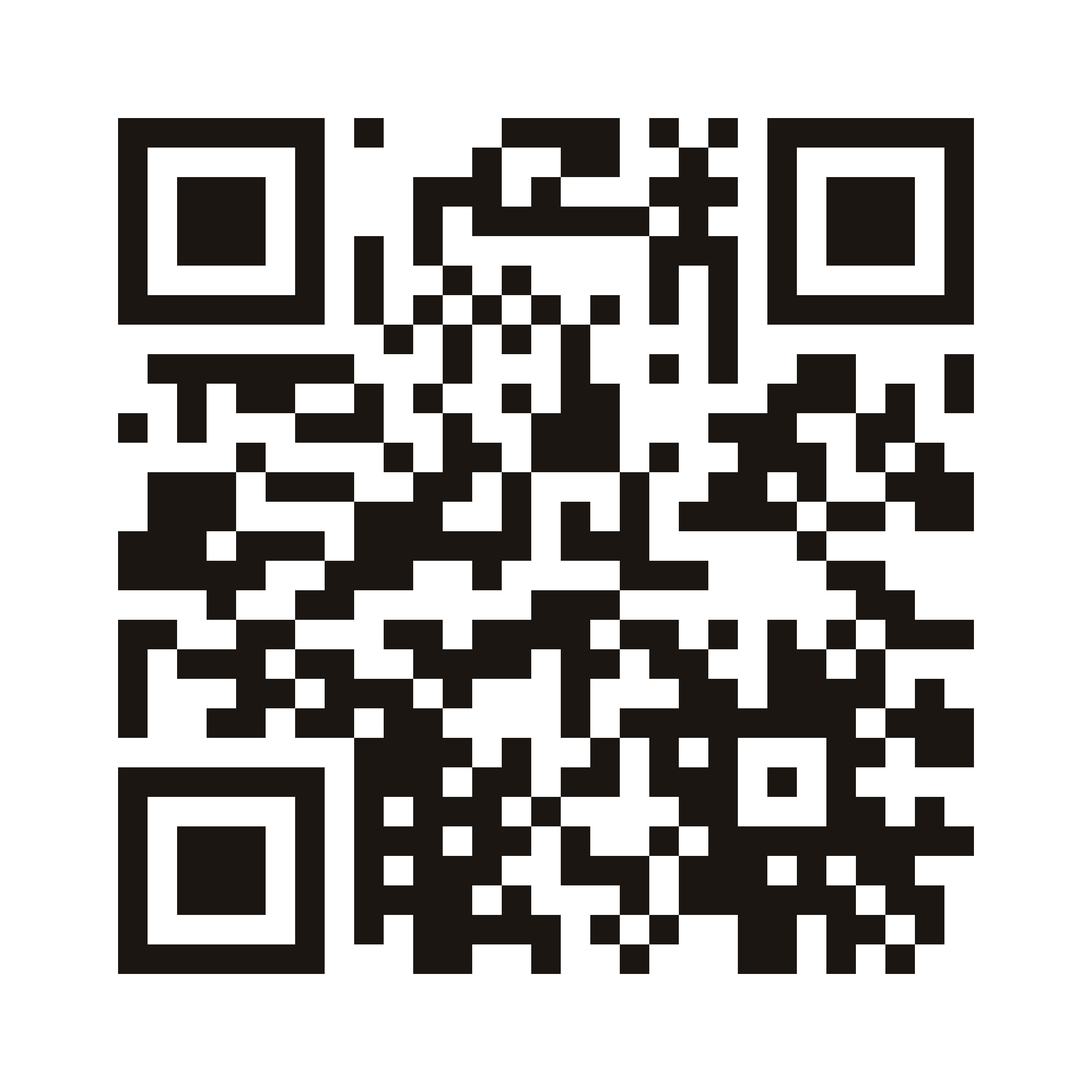
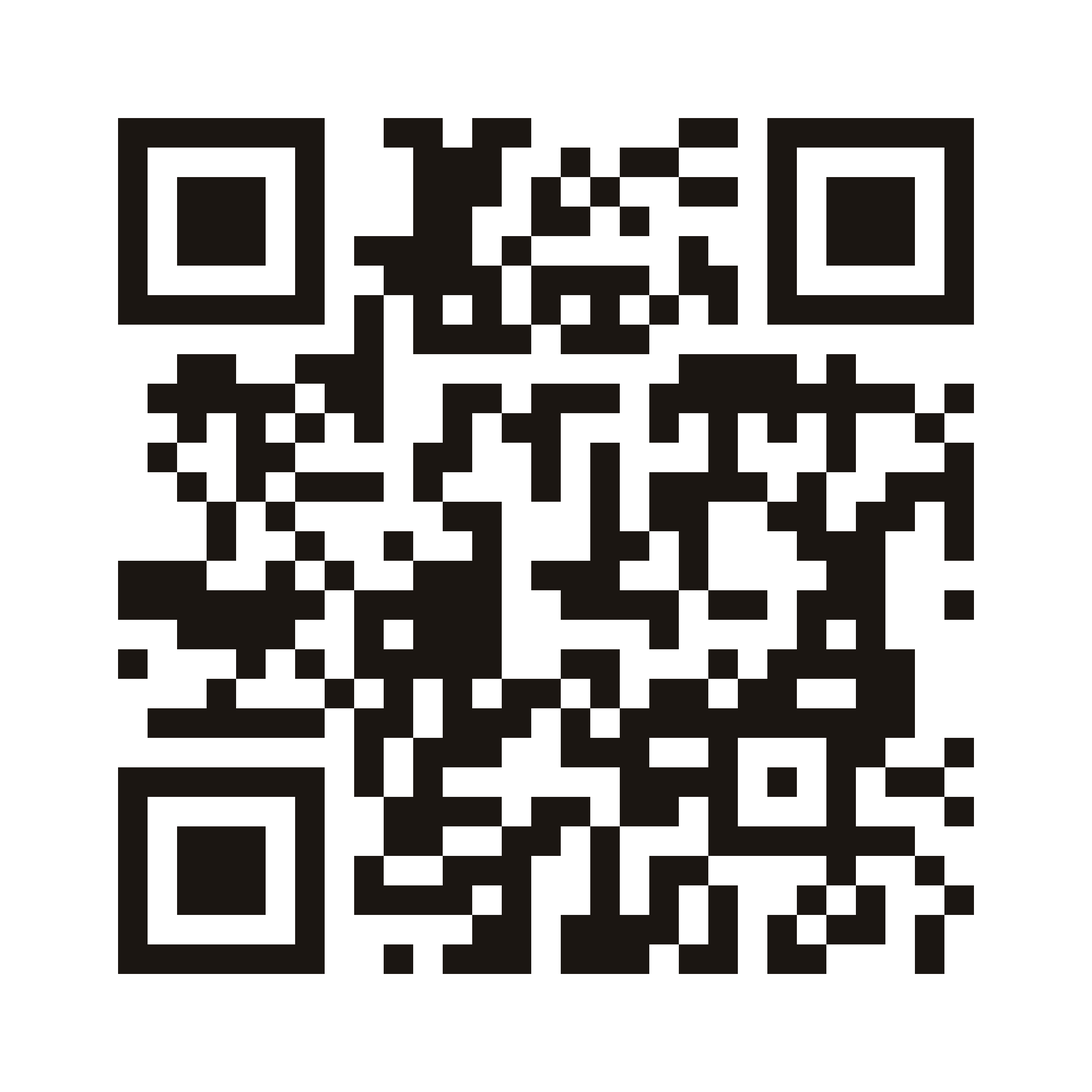
Постеры A4 (светлый и тёмный): QR с логотипами, короткие ссылки /r/ на отзывы
- tools/make_qr.py: уровень коррекции H, логотип в центре кода; коды бота, Instagram, Google, Яндекса, 2ГИС
- /r/google, /r/yandex, /r/2gis ведут на ссылки отзывов из «Настроек» таблицы
- tools/check_qr.swift: проверка распознавания через Apple Vision
- print/mockups: макеты A4

Changed region(s): [[0.0938, 0.0938, 0.9062, 0.9062], [0.8438, 0.3125, 0.9062, 0.375]]

diff --git a/print/mockups/a4-light.html b/print/mockups/a4-light.html
@@ -1,0 +1,93 @@
+<!doctype html><html lang="uz" class="light"><head><meta charset="utf-8"><title>A4 — light</title><link rel="stylesheet" href="base.css"><style>
+@page { size: 210mm 297mm; margin: 0; }
+.light { --bg: #FFF6EA; --dots: rgb(27 22 18 / .07); --fg: #1B1612; --muted: #74695F; --accent: #E31B23; --chip: #fff; --line: #EEDDC8; --star: #F5A300; }
+.dark  { --bg: #17120F; --dots: rgb(255 255 255 / .06); --fg: #FBF3EA; --muted: #B9AA9B; --accent: #FFD23F; --chip: #241C17; --line: #3A2E26; --star: #FFD23F; }
+.page { width: 210mm; height: 297mm; color: var(--fg); background: radial-gradient(var(--dots) .35mm, transparent .4mm) 0 0 / 4mm 4mm, var(--bg); }
+.dark .page { background: radial-gradient(var(--dots) .35mm, transparent .4mm) 0 0 / 4mm 4mm, radial-gradient(70% 40% at 100% 0%, rgb(227 27 35 / .38), transparent 70%), radial-gradient(55% 35% at 0% 50%, rgb(255 210 63 / .09), transparent 70%), var(--bg); }
+.word { color: var(--fg); }
+
+.top { position: absolute; top: 13mm; left: 16mm; right: 16mm; display: flex; justify-content: space-between; align-items: center; }
+.open { display: flex; align-items: center; gap: 2.4mm; padding: 2.2mm 4.4mm 2.2mm 3mm; border-radius: 99mm; background: var(--chip); border: .5mm solid var(--line); }
+.open svg { width: 7.4mm; height: 7.4mm; color: var(--accent); }
+.open b { display: block; font-size: 6.6mm; font-weight: 800; line-height: 1; }
+.open span { display: block; margin-top: .6mm; font-size: 2.9mm; font-weight: 600; color: var(--muted); }
+
+.head { position: absolute; top: 41mm; left: 14mm; right: 14mm; text-align: center; }
+h1 { font-size: 14mm; line-height: 1; font-weight: 800; letter-spacing: -.03em; }
+h1 em { display: block; font-style: normal; color: var(--accent); }
+.head p { margin-top: 3.2mm; font-size: 5.2mm; font-weight: 600; color: var(--muted); }
+
+.stage { position: absolute; top: 94mm; left: 50%; width: 94mm; transform: translateX(-50%); }
+.stage::before { content: ""; position: absolute; inset: -4.5mm -6mm; border-radius: 10mm; background: #FFD23F; transform: rotate(-3.5deg); }
+.card { position: relative; padding: 15mm 11mm 4mm; border-radius: 7mm; background: #fff; text-align: center; box-shadow: 0 1.6mm 0 rgb(0 0 0 / .14); }
+.card img { display: block; width: 100%; height: auto; }
+.cta { position: absolute; top: 0; left: 50%; transform: translate(-50%, -55%); display: flex; align-items: center; gap: 2.2mm; padding: 2.5mm 5.2mm 2.5mm 4.4mm; border-radius: 99mm; background: #E31B23; color: #fff; white-space: nowrap; box-shadow: 0 1mm 0 #A80E17; }
+.cta svg { width: 6.2mm; height: 6.2mm; }
+.cta b { font-size: 5.2mm; font-weight: 800; letter-spacing: .04em; text-transform: uppercase; }
+.cta span { font-size: 3.8mm; font-weight: 600; opacity: .9; }
+.url { margin-top: 3.4mm; font-size: 5.8mm; font-weight: 800; color: #1B1612; }
+
+/* выгода рядом с действием: стикер «бесплатная доставка» */
+.sticker { position: absolute; top: 106mm; left: 9mm; width: 39mm; height: 39mm; border-radius: 50%; background: #E31B23; color: #fff; display: grid; place-items: center; text-align: center; transform: rotate(-11deg); box-shadow: 0 1.4mm 0 #A80E17; }
+.sticker::before { content: ""; position: absolute; inset: 1.6mm; border-radius: 50%; border: .45mm dashed rgb(255 255 255 / .6); }
+.sticker svg { width: 8mm; height: 8mm; color: #FFD23F; }
+.sticker b { display: block; font-size: 7.4mm; font-weight: 800; line-height: .95; letter-spacing: -.01em; }
+.sticker span { display: block; font-size: 3.1mm; font-weight: 700; line-height: 1.1; }
+.sticker small { display: block; margin-top: .9mm; font-size: 2.9mm; font-weight: 500; opacity: .85; }
+
+/* маскот смотрит на главный QR — взгляд зрителя идёт туда же */
+.mascot { position: absolute; top: 150mm; right: 7mm; width: 40mm; transform: rotate(9deg); }
+.mascot svg { display: block; width: 100%; height: 40mm; filter: drop-shadow(1.1mm 0 0 #fff) drop-shadow(-1.1mm 0 0 #fff) drop-shadow(0 1.1mm 0 #fff) drop-shadow(0 -1.1mm 0 #fff) drop-shadow(0 1.6mm 0 rgb(0 0 0 / .16)); }
+
+.links { position: absolute; top: 214mm; left: 16mm; right: 16mm; display: grid; grid-template-columns: 2fr 3fr; gap: 6mm; }
+.panel { padding: 3.6mm 4mm 3.2mm; border-radius: 5mm; background: var(--chip); border: .5mm solid var(--line); }
+.panel h2 { display: flex; align-items: center; gap: 1.8mm; height: 4.8mm; font-size: 4mm; font-weight: 800; line-height: 1.1; white-space: nowrap; }
+.panel h2 small { font-size: 3.3mm; font-weight: 500; color: var(--muted); }
+.stars { display: inline-flex; gap: .3mm; margin-left: auto; color: var(--star); }
+.stars svg { width: 3.7mm; height: 3.7mm; }
+.row { display: grid; gap: 4mm; margin-top: 3mm; }
+.panel:first-child .row { grid-template-columns: repeat(2, 1fr); }
+.panel:last-child .row { grid-template-columns: repeat(3, 1fr); }
+.tile { text-align: center; }
+.tile .q { padding: 2.5mm; border-radius: 3mm; background: #fff; border: .4mm solid #E9E1D6; }
+.dark .tile .q { border-color: #fff; }
+.tile .q img { display: block; width: 100%; }
+.tile b { display: block; margin-top: 1.8mm; font-size: 3.2mm; font-weight: 700; }
+
+.band { position: absolute; left: 0; right: 0; bottom: 0; height: 24mm; padding: 0 16mm; display: grid; grid-template-columns: auto 1fr; gap: 8mm; align-items: center; background: #E31B23; color: #fff; }
+.band .ph { display: flex; align-items: center; gap: 2.4mm; font-size: 6.6mm; font-weight: 800; white-space: nowrap; }
+.band .ph svg { width: 6mm; height: 6mm; }
+.band .ad { display: flex; align-items: center; gap: 2.4mm; padding-left: 8mm; border-left: .4mm solid rgb(255 255 255 / .35); font-size: 4mm; font-weight: 800; line-height: 1.2; }
+.band .ad svg { width: 5.6mm; height: 5.6mm; }
+.band .ad span { display: block; font-size: 3mm; font-weight: 500; opacity: .88; }
+</style></head><body><svg width="0" height="0" style="position:absolute"><defs>
+<symbol id="cup" viewBox="0 0 64 64"><path d="M21 13 25 5l7 6 7-6 4 8z" fill="#FFD23F" stroke="#1B1612" stroke-width="2.4" stroke-linejoin="round"/><path d="M11 17h42l-4.2 33.5A7 7 0 0 1 41.9 57H22.1a7 7 0 0 1-6.9-6.5z" fill="#1B1612"/><path d="M52 24h2.5a8 8 0 0 1 0 16H50" fill="none" stroke="#1B1612" stroke-width="4.5" stroke-linecap="round"/><ellipse cx="25" cy="30" rx="2.6" ry="3.2" fill="#fff"/><ellipse cx="39" cy="30" rx="2.6" ry="3.2" fill="#fff"/><path d="M23 39q9 9 18 0" fill="none" stroke="#fff" stroke-width="3.4" stroke-linecap="round"/></symbol>
+<symbol id="phone" viewBox="0 0 24 24"><path d="M6.6 3.5h2.6l1.4 4.2-2 1.3a11 11 0 0 0 6.4 6.4l1.3-2 4.2 1.4v2.6a2 2 0 0 1-2.2 2A16.5 16.5 0 0 1 4.6 5.7a2 2 0 0 1 2-2.2z" fill="none" stroke="currentColor" stroke-width="2" stroke-linejoin="round"/></symbol>
+<symbol id="pin" viewBox="0 0 24 24"><g fill="none" stroke="currentColor" stroke-width="2" stroke-linejoin="round"><path d="M12 21s-6.5-5.6-6.5-11a6.5 6.5 0 0 1 13 0c0 5.4-6.5 11-6.5 11z"/><circle cx="12" cy="10" r="2.4"/></g></symbol>
+<symbol id="clock" viewBox="0 0 24 24"><g fill="none" stroke="currentColor" stroke-width="2" stroke-linecap="round"><circle cx="12" cy="12" r="8.5"/><path d="M12 7.5V12l3 2"/></g></symbol>
+<symbol id="insta" viewBox="0 0 24 24"><g fill="none" stroke="currentColor" stroke-width="2"><rect x="3.5" y="3.5" width="17" height="17" rx="5"/><circle cx="12" cy="12" r="4"/><circle cx="17.2" cy="6.8" r=".6" fill="currentColor"/></g></symbol>
+<symbol id="tg" viewBox="0 0 24 24"><path d="M20.5 4.5 3.8 11c-.9.4-.9 1.6.1 1.9l4.1 1.3 1.6 5c.3.8 1.3 1 1.9.4l2.3-2.2 4.4 3.2c.7.5 1.7.1 1.9-.7L22 5.8c.2-1-.7-1.7-1.5-1.3zM9.5 14l8-6.2" fill="none" stroke="currentColor" stroke-width="1.8" stroke-linejoin="round"/></symbol>
+<symbol id="scooter" viewBox="0 0 24 24"><g fill="none" stroke="currentColor" stroke-width="2" stroke-linecap="round" stroke-linejoin="round"><circle cx="6" cy="17" r="2.5"/><circle cx="18" cy="17" r="2.5"/><path d="M8.5 17h6.5l2-6h-4M14 5h2l3 12M3 11h6v3"/></g></symbol>
+
+<symbol id="bag" viewBox="0 0 24 24"><g fill="none" stroke="currentColor" stroke-width="2" stroke-linejoin="round"><path d="M5 8h14l-1.2 12H6.2z"/><path d="M9 10V7a3 3 0 0 1 6 0v3"/></g></symbol>
+<symbol id="wallet" viewBox="0 0 24 24"><g fill="none" stroke="currentColor" stroke-width="2" stroke-linecap="round"><rect x="3" y="5.5" width="18" height="13" rx="2.5"/><path d="M3 10h18M7 14.5h3"/></g></symbol>
+<symbol id="camera" viewBox="0 0 24 24"><g fill="none" stroke="currentColor" stroke-width="2.2" stroke-linejoin="round"><path d="M4 8.5h3l1.6-2.5h6.8L17 8.5h3a1 1 0 0 1 1 1V18a1 1 0 0 1-1 1H4a1 1 0 0 1-1-1V9.5a1 1 0 0 1 1-1z"/><circle cx="12" cy="13.5" r="3.4"/></g></symbol>
+<symbol id="tgfill" viewBox="0 0 24 24"><circle cx="12" cy="12" r="12" fill="#229ED9"/><path d="M5.4 11.8 17 7.3c.6-.2 1.1.1.9 1l-2 9.3c-.1.7-.6.8-1.1.5l-3-2.2-1.5 1.4c-.2.2-.3.3-.6.3l.2-3.1 5.6-5c.2-.2 0-.3-.3-.1l-6.9 4.3-3-.9c-.6-.2-.6-.6.1-.9z" fill="#fff"/></symbol>
+<symbol id="igfill" viewBox="0 0 24 24"><defs><radialGradient id="igg" cx="30%" cy="107%" r="150%"><stop offset="0" stop-color="#FDF497"/><stop offset=".05" stop-color="#FDF497"/><stop offset=".45" stop-color="#FD5949"/><stop offset=".6" stop-color="#D6249F"/><stop offset=".9" stop-color="#285AEB"/></radialGradient></defs><rect width="24" height="24" rx="6.5" fill="url(#igg)"/><g fill="none" stroke="#fff" stroke-width="1.9"><rect x="5.2" y="5.2" width="13.6" height="13.6" rx="4"/><circle cx="12" cy="12" r="3.3"/></g><circle cx="16.3" cy="7.7" r="1" fill="#fff"/></symbol>
+<symbol id="star" viewBox="0 0 24 24"><path d="m12 2.8 2.8 5.9 6.4.8-4.7 4.4 1.2 6.4L12 17.2l-5.7 3.1 1.2-6.4-4.7-4.4 6.4-.8z" fill="currentColor"/></symbol>
+<symbol id="buddy" viewBox="0 0 64 64"><path d="M21 13 25 5l7 6 7-6 4 8z" fill="#FFD23F" stroke="#1B1612" stroke-width="2.4" stroke-linejoin="round"/><path d="M11 17h42l-4.2 33.5A7 7 0 0 1 41.9 57H22.1a7 7 0 0 1-6.9-6.5z" fill="#1B1612"/><path d="M52 24h2.5a8 8 0 0 1 0 16H50" fill="none" stroke="#1B1612" stroke-width="4.5" stroke-linecap="round"/><ellipse cx="25" cy="30" rx="3.6" ry="4.2" fill="#fff"/><ellipse cx="39" cy="30" rx="3.6" ry="4.2" fill="#fff"/><circle cx="23.4" cy="31.6" r="2" fill="#1B1612"/><circle cx="37.4" cy="31.6" r="2" fill="#1B1612"/><circle cx="19.5" cy="38" r="2.2" fill="#E31B23"/><circle cx="44.5" cy="38" r="2.2" fill="#E31B23"/><path d="M25 40q7 7 14 0" fill="none" stroke="#fff" stroke-width="3.2" stroke-linecap="round"/></symbol>
+</defs></svg><div class="page"><div class="top"><div class="brand"><span class="mark"><svg><use href="#cup"/></svg></span><span class="word">Buddy <i>COFFEE</i></span></div>
+<div class="open"><svg class="icon"><use href="#clock"/></svg><div><b>24/7</b><span>Har kuni · Ежедневно</span></div></div></div>
+<div class="head"><h1>Menyu va buyurtma <em>bitta skanerda</em></h1><p>Меню и заказ — в один скан</p></div>
+<div class="sticker"><div><svg class="icon"><use href="#scooter"/></svg><b>BEPUL</b><span>yetkazib berish</span><small>Бесплатная доставка</small></div></div>
+<div class="stage"><div class="card"><div class="cta"><svg class="icon"><use href="#camera"/></svg><b>Skanerlang</b><span>Сканируйте</span></div><img src="../qr.svg" alt=""><div class="url">buddy.cheking.uz</div></div></div>
+<div class="mascot"><svg viewBox="0 0 64 64"><use href="#buddy"/></svg></div>
+<div class="links">
+<div class="panel"><h2>Obuna bo‘ling <small>· Подпишитесь</small></h2><div class="row">
+<div class="tile"><div class="q"><img src="../qr-bot.svg" alt=""></div><b>Telegram</b></div>
+<div class="tile"><div class="q"><img src="../qr-instagram.svg" alt=""></div><b>Instagram</b></div></div></div>
+<div class="panel"><h2>Sharh qoldiring <small>· Оставьте отзыв</small><span class="stars"><svg><use href="#star"/></svg><svg><use href="#star"/></svg><svg><use href="#star"/></svg><svg><use href="#star"/></svg><svg><use href="#star"/></svg></span></h2><div class="row">
+<div class="tile"><div class="q"><img src="../qr-google.svg" alt=""></div><b>Google</b></div>
+<div class="tile"><div class="q"><img src="../qr-yandex.svg" alt=""></div><b>Yandex</b></div>
+<div class="tile"><div class="q"><img src="../qr-2gis.svg" alt=""></div><b>2GIS</b></div></div></div></div>
+<div class="band"><div class="ph"><svg class="icon"><use href="#phone"/></svg>+998 90 896 54 00</div><div class="ad"><svg class="icon"><use href="#pin"/></svg><div>Fusunkor ko‘chasi, 70<span>ул. Фусункор, 70 · рядом с «Visol»</span></div></div></div></div></body></html>

diff --git a/print/mockups/a4-dark.html b/print/mockups/a4-dark.html
@@ -1,0 +1,93 @@
+<!doctype html><html lang="uz" class="dark"><head><meta charset="utf-8"><title>A4 — dark</title><link rel="stylesheet" href="base.css"><style>
+@page { size: 210mm 297mm; margin: 0; }
+.light { --bg: #FFF6EA; --dots: rgb(27 22 18 / .07); --fg: #1B1612; --muted: #74695F; --accent: #E31B23; --chip: #fff; --line: #EEDDC8; --star: #F5A300; }
+.dark  { --bg: #17120F; --dots: rgb(255 255 255 / .06); --fg: #FBF3EA; --muted: #B9AA9B; --accent: #FFD23F; --chip: #241C17; --line: #3A2E26; --star: #FFD23F; }
+.page { width: 210mm; height: 297mm; color: var(--fg); background: radial-gradient(var(--dots) .35mm, transparent .4mm) 0 0 / 4mm 4mm, var(--bg); }
+.dark .page { background: radial-gradient(var(--dots) .35mm, transparent .4mm) 0 0 / 4mm 4mm, radial-gradient(70% 40% at 100% 0%, rgb(227 27 35 / .38), transparent 70%), radial-gradient(55% 35% at 0% 50%, rgb(255 210 63 / .09), transparent 70%), var(--bg); }
+.word { color: var(--fg); }
+
+.top { position: absolute; top: 13mm; left: 16mm; right: 16mm; display: flex; justify-content: space-between; align-items: center; }
+.open { display: flex; align-items: center; gap: 2.4mm; padding: 2.2mm 4.4mm 2.2mm 3mm; border-radius: 99mm; background: var(--chip); border: .5mm solid var(--line); }
+.open svg { width: 7.4mm; height: 7.4mm; color: var(--accent); }
+.open b { display: block; font-size: 6.6mm; font-weight: 800; line-height: 1; }
+.open span { display: block; margin-top: .6mm; font-size: 2.9mm; font-weight: 600; color: var(--muted); }
+
+.head { position: absolute; top: 41mm; left: 14mm; right: 14mm; text-align: center; }
+h1 { font-size: 14mm; line-height: 1; font-weight: 800; letter-spacing: -.03em; }
+h1 em { display: block; font-style: normal; color: var(--accent); }
+.head p { margin-top: 3.2mm; font-size: 5.2mm; font-weight: 600; color: var(--muted); }
+
+.stage { position: absolute; top: 94mm; left: 50%; width: 94mm; transform: translateX(-50%); }
+.stage::before { content: ""; position: absolute; inset: -4.5mm -6mm; border-radius: 10mm; background: #FFD23F; transform: rotate(-3.5deg); }
+.card { position: relative; padding: 15mm 11mm 4mm; border-radius: 7mm; background: #fff; text-align: center; box-shadow: 0 1.6mm 0 rgb(0 0 0 / .14); }
+.card img { display: block; width: 100%; height: auto; }
+.cta { position: absolute; top: 0; left: 50%; transform: translate(-50%, -55%); display: flex; align-items: center; gap: 2.2mm; padding: 2.5mm 5.2mm 2.5mm 4.4mm; border-radius: 99mm; background: #E31B23; color: #fff; white-space: nowrap; box-shadow: 0 1mm 0 #A80E17; }
+.cta svg { width: 6.2mm; height: 6.2mm; }
+.cta b { font-size: 5.2mm; font-weight: 800; letter-spacing: .04em; text-transform: uppercase; }
+.cta span { font-size: 3.8mm; font-weight: 600; opacity: .9; }
+.url { margin-top: 3.4mm; font-size: 5.8mm; font-weight: 800; color: #1B1612; }
+
+/* выгода рядом с действием: стикер «бесплатная доставка» */
+.sticker { position: absolute; top: 106mm; left: 9mm; width: 39mm; height: 39mm; border-radius: 50%; background: #E31B23; color: #fff; display: grid; place-items: center; text-align: center; transform: rotate(-11deg); box-shadow: 0 1.4mm 0 #A80E17; }
+.sticker::before { content: ""; position: absolute; inset: 1.6mm; border-radius: 50%; border: .45mm dashed rgb(255 255 255 / .6); }
+.sticker svg { width: 8mm; height: 8mm; color: #FFD23F; }
+.sticker b { display: block; font-size: 7.4mm; font-weight: 800; line-height: .95; letter-spacing: -.01em; }
+.sticker span { display: block; font-size: 3.1mm; font-weight: 700; line-height: 1.1; }
+.sticker small { display: block; margin-top: .9mm; font-size: 2.9mm; font-weight: 500; opacity: .85; }
+
+/* маскот смотрит на главный QR — взгляд зрителя идёт туда же */
+.mascot { position: absolute; top: 150mm; right: 7mm; width: 40mm; transform: rotate(9deg); }
+.mascot svg { display: block; width: 100%; height: 40mm; filter: drop-shadow(1.1mm 0 0 #fff) drop-shadow(-1.1mm 0 0 #fff) drop-shadow(0 1.1mm 0 #fff) drop-shadow(0 -1.1mm 0 #fff) drop-shadow(0 1.6mm 0 rgb(0 0 0 / .16)); }
+
+.links { position: absolute; top: 214mm; left: 16mm; right: 16mm; display: grid; grid-template-columns: 2fr 3fr; gap: 6mm; }
+.panel { padding: 3.6mm 4mm 3.2mm; border-radius: 5mm; background: var(--chip); border: .5mm solid var(--line); }
+.panel h2 { display: flex; align-items: center; gap: 1.8mm; height: 4.8mm; font-size: 4mm; font-weight: 800; line-height: 1.1; white-space: nowrap; }
+.panel h2 small { font-size: 3.3mm; font-weight: 500; color: var(--muted); }
+.stars { display: inline-flex; gap: .3mm; margin-left: auto; color: var(--star); }
+.stars svg { width: 3.7mm; height: 3.7mm; }
+.row { display: grid; gap: 4mm; margin-top: 3mm; }
+.panel:first-child .row { grid-template-columns: repeat(2, 1fr); }
+.panel:last-child .row { grid-template-columns: repeat(3, 1fr); }
+.tile { text-align: center; }
+.tile .q { padding: 2.5mm; border-radius: 3mm; background: #fff; border: .4mm solid #E9E1D6; }
+.dark .tile .q { border-color: #fff; }
+.tile .q img { display: block; width: 100%; }
+.tile b { display: block; margin-top: 1.8mm; font-size: 3.2mm; font-weight: 700; }
+
+.band { position: absolute; left: 0; right: 0; bottom: 0; height: 24mm; padding: 0 16mm; display: grid; grid-template-columns: auto 1fr; gap: 8mm; align-items: center; background: #E31B23; color: #fff; }
+.band .ph { display: flex; align-items: center; gap: 2.4mm; font-size: 6.6mm; font-weight: 800; white-space: nowrap; }
+.band .ph svg { width: 6mm; height: 6mm; }
+.band .ad { display: flex; align-items: center; gap: 2.4mm; padding-left: 8mm; border-left: .4mm solid rgb(255 255 255 / .35); font-size: 4mm; font-weight: 800; line-height: 1.2; }
+.band .ad svg { width: 5.6mm; height: 5.6mm; }
+.band .ad span { display: block; font-size: 3mm; font-weight: 500; opacity: .88; }
+</style></head><body><svg width="0" height="0" style="position:absolute"><defs>
+<symbol id="cup" viewBox="0 0 64 64"><path d="M21 13 25 5l7 6 7-6 4 8z" fill="#FFD23F" stroke="#1B1612" stroke-width="2.4" stroke-linejoin="round"/><path d="M11 17h42l-4.2 33.5A7 7 0 0 1 41.9 57H22.1a7 7 0 0 1-6.9-6.5z" fill="#1B1612"/><path d="M52 24h2.5a8 8 0 0 1 0 16H50" fill="none" stroke="#1B1612" stroke-width="4.5" stroke-linecap="round"/><ellipse cx="25" cy="30" rx="2.6" ry="3.2" fill="#fff"/><ellipse cx="39" cy="30" rx="2.6" ry="3.2" fill="#fff"/><path d="M23 39q9 9 18 0" fill="none" stroke="#fff" stroke-width="3.4" stroke-linecap="round"/></symbol>
+<symbol id="phone" viewBox="0 0 24 24"><path d="M6.6 3.5h2.6l1.4 4.2-2 1.3a11 11 0 0 0 6.4 6.4l1.3-2 4.2 1.4v2.6a2 2 0 0 1-2.2 2A16.5 16.5 0 0 1 4.6 5.7a2 2 0 0 1 2-2.2z" fill="none" stroke="currentColor" stroke-width="2" stroke-linejoin="round"/></symbol>
+<symbol id="pin" viewBox="0 0 24 24"><g fill="none" stroke="currentColor" stroke-width="2" stroke-linejoin="round"><path d="M12 21s-6.5-5.6-6.5-11a6.5 6.5 0 0 1 13 0c0 5.4-6.5 11-6.5 11z"/><circle cx="12" cy="10" r="2.4"/></g></symbol>
+<symbol id="clock" viewBox="0 0 24 24"><g fill="none" stroke="currentColor" stroke-width="2" stroke-linecap="round"><circle cx="12" cy="12" r="8.5"/><path d="M12 7.5V12l3 2"/></g></symbol>
+<symbol id="insta" viewBox="0 0 24 24"><g fill="none" stroke="currentColor" stroke-width="2"><rect x="3.5" y="3.5" width="17" height="17" rx="5"/><circle cx="12" cy="12" r="4"/><circle cx="17.2" cy="6.8" r=".6" fill="currentColor"/></g></symbol>
+<symbol id="tg" viewBox="0 0 24 24"><path d="M20.5 4.5 3.8 11c-.9.4-.9 1.6.1 1.9l4.1 1.3 1.6 5c.3.8 1.3 1 1.9.4l2.3-2.2 4.4 3.2c.7.5 1.7.1 1.9-.7L22 5.8c.2-1-.7-1.7-1.5-1.3zM9.5 14l8-6.2" fill="none" stroke="currentColor" stroke-width="1.8" stroke-linejoin="round"/></symbol>
+<symbol id="scooter" viewBox="0 0 24 24"><g fill="none" stroke="currentColor" stroke-width="2" stroke-linecap="round" stroke-linejoin="round"><circle cx="6" cy="17" r="2.5"/><circle cx="18" cy="17" r="2.5"/><path d="M8.5 17h6.5l2-6h-4M14 5h2l3 12M3 11h6v3"/></g></symbol>
+
+<symbol id="bag" viewBox="0 0 24 24"><g fill="none" stroke="currentColor" stroke-width="2" stroke-linejoin="round"><path d="M5 8h14l-1.2 12H6.2z"/><path d="M9 10V7a3 3 0 0 1 6 0v3"/></g></symbol>
+<symbol id="wallet" viewBox="0 0 24 24"><g fill="none" stroke="currentColor" stroke-width="2" stroke-linecap="round"><rect x="3" y="5.5" width="18" height="13" rx="2.5"/><path d="M3 10h18M7 14.5h3"/></g></symbol>
+<symbol id="camera" viewBox="0 0 24 24"><g fill="none" stroke="currentColor" stroke-width="2.2" stroke-linejoin="round"><path d="M4 8.5h3l1.6-2.5h6.8L17 8.5h3a1 1 0 0 1 1 1V18a1 1 0 0 1-1 1H4a1 1 0 0 1-1-1V9.5a1 1 0 0 1 1-1z"/><circle cx="12" cy="13.5" r="3.4"/></g></symbol>
+<symbol id="tgfill" viewBox="0 0 24 24"><circle cx="12" cy="12" r="12" fill="#229ED9"/><path d="M5.4 11.8 17 7.3c.6-.2 1.1.1.9 1l-2 9.3c-.1.7-.6.8-1.1.5l-3-2.2-1.5 1.4c-.2.2-.3.3-.6.3l.2-3.1 5.6-5c.2-.2 0-.3-.3-.1l-6.9 4.3-3-.9c-.6-.2-.6-.6.1-.9z" fill="#fff"/></symbol>
+<symbol id="igfill" viewBox="0 0 24 24"><defs><radialGradient id="igg" cx="30%" cy="107%" r="150%"><stop offset="0" stop-color="#FDF497"/><stop offset=".05" stop-color="#FDF497"/><stop offset=".45" stop-color="#FD5949"/><stop offset=".6" stop-color="#D6249F"/><stop offset=".9" stop-color="#285AEB"/></radialGradient></defs><rect width="24" height="24" rx="6.5" fill="url(#igg)"/><g fill="none" stroke="#fff" stroke-width="1.9"><rect x="5.2" y="5.2" width="13.6" height="13.6" rx="4"/><circle cx="12" cy="12" r="3.3"/></g><circle cx="16.3" cy="7.7" r="1" fill="#fff"/></symbol>
+<symbol id="star" viewBox="0 0 24 24"><path d="m12 2.8 2.8 5.9 6.4.8-4.7 4.4 1.2 6.4L12 17.2l-5.7 3.1 1.2-6.4-4.7-4.4 6.4-.8z" fill="currentColor"/></symbol>
+<symbol id="buddy" viewBox="0 0 64 64"><path d="M21 13 25 5l7 6 7-6 4 8z" fill="#FFD23F" stroke="#1B1612" stroke-width="2.4" stroke-linejoin="round"/><path d="M11 17h42l-4.2 33.5A7 7 0 0 1 41.9 57H22.1a7 7 0 0 1-6.9-6.5z" fill="#1B1612"/><path d="M52 24h2.5a8 8 0 0 1 0 16H50" fill="none" stroke="#1B1612" stroke-width="4.5" stroke-linecap="round"/><ellipse cx="25" cy="30" rx="3.6" ry="4.2" fill="#fff"/><ellipse cx="39" cy="30" rx="3.6" ry="4.2" fill="#fff"/><circle cx="23.4" cy="31.6" r="2" fill="#1B1612"/><circle cx="37.4" cy="31.6" r="2" fill="#1B1612"/><circle cx="19.5" cy="38" r="2.2" fill="#E31B23"/><circle cx="44.5" cy="38" r="2.2" fill="#E31B23"/><path d="M25 40q7 7 14 0" fill="none" stroke="#fff" stroke-width="3.2" stroke-linecap="round"/></symbol>
+</defs></svg><div class="page"><div class="top"><div class="brand"><span class="mark"><svg><use href="#cup"/></svg></span><span class="word">Buddy <i>COFFEE</i></span></div>
+<div class="open"><svg class="icon"><use href="#clock"/></svg><div><b>24/7</b><span>Har kuni · Ежедневно</span></div></div></div>
+<div class="head"><h1>Menyu va buyurtma <em>bitta skanerda</em></h1><p>Меню и заказ — в один скан</p></div>
+<div class="sticker"><div><svg class="icon"><use href="#scooter"/></svg><b>BEPUL</b><span>yetkazib berish</span><small>Бесплатная доставка</small></div></div>
+<div class="stage"><div class="card"><div class="cta"><svg class="icon"><use href="#camera"/></svg><b>Skanerlang</b><span>Сканируйте</span></div><img src="../qr.svg" alt=""><div class="url">buddy.cheking.uz</div></div></div>
+<div class="mascot"><svg viewBox="0 0 64 64"><use href="#buddy"/></svg></div>
+<div class="links">
+<div class="panel"><h2>Obuna bo‘ling <small>· Подпишитесь</small></h2><div class="row">
+<div class="tile"><div class="q"><img src="../qr-bot.svg" alt=""></div><b>Telegram</b></div>
+<div class="tile"><div class="q"><img src="../qr-instagram.svg" alt=""></div><b>Instagram</b></div></div></div>
+<div class="panel"><h2>Sharh qoldiring <small>· Оставьте отзыв</small><span class="stars"><svg><use href="#star"/></svg><svg><use href="#star"/></svg><svg><use href="#star"/></svg><svg><use href="#star"/></svg><svg><use href="#star"/></svg></span></h2><div class="row">
+<div class="tile"><div class="q"><img src="../qr-google.svg" alt=""></div><b>Google</b></div>
+<div class="tile"><div class="q"><img src="../qr-yandex.svg" alt=""></div><b>Yandex</b></div>
+<div class="tile"><div class="q"><img src="../qr-2gis.svg" alt=""></div><b>2GIS</b></div></div></div></div>
+<div class="band"><div class="ph"><svg class="icon"><use href="#phone"/></svg>+998 90 896 54 00</div><div class="ad"><svg class="icon"><use href="#pin"/></svg><div>Fusunkor ko‘chasi, 70<span>ул. Фусункор, 70 · рядом с «Visol»</span></div></div></div></div></body></html>

diff --git a/server/index.js b/server/index.js
@@ -1,5 +1,5 @@
 // Серверная часть сайта (Cloudflare Pages, advanced mode: сборка кладёт её в dist/_worker.js).
-// Обрабатывает только /api/* (см. dist/_routes.json), остальное отдаёт статика Pages.
+// Обрабатывает /api/* и короткие ссылки /r/* (см. dist/_routes.json), остальное отдаёт статика Pages.
 //
 // Нужно в настройках проекта Pages:
 //   DB         — привязка базы D1 (Settings → Bindings → D1 database)
@@ -7,11 +7,11 @@
 import { handleUpdate, setupBot } from './bot.js';
 import { customersCsv } from './customers.js';
 import { ensureSchema, getKV, setKV } from './db.js';
-import { loadModel } from './menu.js';
+import { loadModel, R, setting } from './menu.js';
 import { accepting, cancelBySelf, createOrder, publicOrder } from './orders.js';
 import { checkWebhook, groupLang, tg, webhookSecret } from './tg.js';
 import { tick } from './tick.js';
-import { fail, json, safeEqual } from './util.js';
+import { fail, json, safeEqual, SITE } from './util.js';
 
 const ORIGINS = ['https://buddy.cheking.uz', 'https://buddy-coffee-menu.pages.dev'];
 
@@ -97,9 +97,25 @@ async function route(request, env, ctx) {
   return fail('not_found', 404);
 }
 
+// Короткие ссылки из QR-кодов на постерах (tools/make_qr.py): ведут на ссылку из «Настроек» таблицы,
+// поэтому постер печатается один раз, а адрес страницы отзывов можно поменять в таблице
+const SHORT = { google: 'отзыв_google', yandex: 'отзыв_yandex', '2gis': 'отзыв_2gis' };
+
+async function shortLink(env, key) {
+  let target = '';
+  try {
+    target = R.safeUrl(setting(await loadModel(env), SHORT[key], 'ru'));
+  } catch (e) {
+    console.warn('short link', key, e && e.message);
+  }
+  return new Response(null, { status: 302, headers: { location: target || SITE, 'cache-control': 'no-store', 'referrer-policy': 'no-referrer' } });
+}
+
 export default {
   async fetch(request, env, ctx) {
     const url = new URL(request.url);
+    const short = url.pathname.match(/^\/r\/([\w-]+)\/?$/);
+    if (short && Object.hasOwn(SHORT, short[1])) return shortLink(env, short[1]);
     if (!url.pathname.startsWith('/api/')) return env.ASSETS.fetch(request);
     if (!env.DB) return fail('server', 503, { detail: 'D1 binding DB is missing' });
     try {

diff --git a/print/mockups/base.css b/print/mockups/base.css
@@ -1,0 +1,24 @@
+/* Общие стили макетов для печати. Размеры в мм: 1 мм на экране ≈ 3.78 px */
+@font-face { font-family: "Rubik"; font-weight: 400 800; src: url("../../assets/fonts/rubik-cyrillic.woff2") format("woff2"); unicode-range: U+0400-045F, U+2116; }
+@font-face { font-family: "Rubik"; font-weight: 400 800; src: url("../../assets/fonts/rubik-latin-ext.woff2") format("woff2"); unicode-range: U+0100-02BA, U+02BD-02C5, U+02C7-02CC, U+02CE-02D7, U+02DD-02FF; }
+@font-face { font-family: "Rubik"; font-weight: 400 800; src: url("../../assets/fonts/rubik-latin.woff2") format("woff2"); unicode-range: U+0000-00FF, U+02BB-02BC, U+2000-206F, U+20AC, U+2212; }
+
+:root { --red: #E31B23; --red-deep: #A80E17; --yellow: #FFD23F; --ink: #1B1612; --cream: #FFF6EA; }
+* { box-sizing: border-box; margin: 0; padding: 0; }
+html, body { background: #888; }
+body { font-family: "Rubik", system-ui, sans-serif; color: var(--ink); -webkit-print-color-adjust: exact; print-color-adjust: exact; }
+.page { position: relative; width: 148mm; height: 210mm; overflow: hidden; }
+svg.icon { width: 1em; height: 1em; flex: none; }
+
+.brand { display: flex; align-items: center; gap: 3.2mm; }
+.mark { display: grid; place-items: center; width: 15mm; height: 15mm; border-radius: 4.6mm; background: #fff; transform: rotate(-4deg); box-shadow: 0 1mm 0 rgb(0 0 0 / .2); }
+.mark svg { width: 11.4mm; height: 11.4mm; }
+.word { display: flex; flex-direction: column; align-items: flex-start; font-weight: 800; font-size: 9.2mm; line-height: .92; letter-spacing: -.02em; }
+.word i { margin-top: 1.4mm; padding: .8mm 2.2mm .5mm; border-radius: 1.4mm; background: var(--yellow); color: var(--ink); font-style: normal; font-size: 3.1mm; letter-spacing: .24em; }
+
+.qrbox { background: #fff; border-radius: 5mm; padding: 4mm; }
+.qrbox img { display: block; width: 100%; height: auto; image-rendering: pixelated; }
+.contacts { display: grid; gap: 1.8mm; font-size: 3.4mm; font-weight: 600; }
+.contacts div { display: flex; align-items: center; gap: 2.2mm; }
+.contacts svg { width: 4.2mm; height: 4.2mm; }
+.ru { font-weight: 500; opacity: .85; }

diff --git a/tools/check_qr.swift b/tools/check_qr.swift
@@ -1,0 +1,18 @@
+// Проверка QR на картинке тем же распознаванием, что у камеры iPhone (Apple Vision).
+// Запуск: swift tools/check_qr.swift poster.png [ещё.png …] — печатает найденные ссылки.
+import Foundation
+import Vision
+
+for path in CommandLine.arguments.dropFirst() {
+    let request = VNDetectBarcodesRequest()
+    request.symbologies = [.qr]
+    let handler = VNImageRequestHandler(url: URL(fileURLWithPath: path))
+    do {
+        try handler.perform([request])
+        let found = (request.results ?? []).compactMap { $0.payloadStringValue }.sorted()
+        print("\(path): \(found.count)")
+        found.forEach { print("  \($0)") }
+    } catch {
+        print("\(path): error \(error)")
+    }
+}

diff --git a/tools/make_qr.py b/tools/make_qr.py
@@ -1,31 +1,82 @@
-"""QR-код на адрес меню: print/qr.svg (векторный) и print/qr.png (2400 px) для типографии.
+"""QR-коды для печати: векторный SVG с логотипом в центре и PNG 2400 px без логотипа.
+print/qr.svg — меню (сайт), qr-bot — Telegram-бот, qr-instagram — Instagram,
+qr-google / qr-yandex / qr-2gis — отзывы. Отзывы ведут на короткие ссылки сайта /r/… (server/index.js),
+а те — на ссылки из «Настроек» таблицы: настоящие ссылки можно вписать позже, не перепечатывая постеры.
+
+Уровень коррекции H (до 30 % потерь): центр кода (≈ 28 % ширины) очищается целыми модулями
+и в него ставится логотип с белой рамкой. Сканирование проверено — см. tools/check_qr.swift.
 
 Запуск: python3 tools/make_qr.py   (нужен пакет qrcode: pip install qrcode pillow)
 """
 import os
 
 import qrcode
-from qrcode.constants import ERROR_CORRECT_Q
+from qrcode.constants import ERROR_CORRECT_H
 
-URL = 'https://buddy.cheking.uz'
+SITE = 'https://buddy.cheking.uz'
+CODES = {
+    'qr': (SITE, 'buddy'),
+    'qr-bot': ('https://t.me/buddy_coffee_uz_bot', 'tg'),
+    'qr-instagram': ('https://www.instagram.com/buddy_coffee_/', 'ig'),
+    'qr-google': (SITE + '/r/google', 'google'),
+    'qr-yandex': (SITE + '/r/yandex', 'yandex'),
+    'qr-2gis': (SITE + '/r/2gis', '2gis'),
+}
 ROOT = os.path.dirname(os.path.dirname(os.path.abspath(__file__)))
 OUT = os.path.join(ROOT, 'print')
 INK = '#1B1612'
 
+# Логотипы в квадрате 24×24
+CUP = ('<path d="M21 13 25 5l7 6 7-6 4 8z" fill="#FFD23F" stroke="#1B1612" stroke-width="2.4" stroke-linejoin="round"/>'
+       '<path d="M11 17h42l-4.2 33.5A7 7 0 0 1 41.9 57H22.1a7 7 0 0 1-6.9-6.5z" fill="#1B1612"/>'
+       '<path d="M52 24h2.5a8 8 0 0 1 0 16H50" fill="none" stroke="#1B1612" stroke-width="4.5" stroke-linecap="round"/>'
+       '<ellipse cx="25" cy="30" rx="2.6" ry="3.2" fill="#fff"/><ellipse cx="39" cy="30" rx="2.6" ry="3.2" fill="#fff"/>'
+       '<path d="M23 39q9 9 18 0" fill="none" stroke="#fff" stroke-width="3.4" stroke-linecap="round"/>')
+TILE = '<rect x=".4" y=".4" width="23.2" height="23.2" rx="6" fill="#fff" stroke="#DADCE0" stroke-width=".8"/>'
+LOGOS = {
+    'buddy': f'<rect width="24" height="24" rx="6" fill="#E31B23"/><g transform="translate(2.2 2.4) scale(.31)">{CUP}</g>',
+    'tg': ('<circle cx="12" cy="12" r="12" fill="#229ED9"/>'
+           '<path d="M5.4 11.8 17 7.3c.6-.2 1.1.1.9 1l-2 9.3c-.1.7-.6.8-1.1.5l-3-2.2-1.5 1.4c-.2.2-.3.3-.6.3l.2-3.1 5.6-5'
+           'c.2-.2 0-.3-.3-.1l-6.9 4.3-3-.9c-.6-.2-.6-.6.1-.9z" fill="#fff"/>'),
+    'ig': ('<defs><radialGradient id="ig" cx="30%" cy="107%" r="150%"><stop offset=".05" stop-color="#FDF497"/>'
+           '<stop offset=".45" stop-color="#FD5949"/><stop offset=".6" stop-color="#D6249F"/><stop offset=".9" stop-color="#285AEB"/>'
+           '</radialGradient></defs><rect width="24" height="24" rx="6.5" fill="url(#ig)"/>'
+           '<g fill="none" stroke="#fff" stroke-width="1.9"><rect x="5.2" y="5.2" width="13.6" height="13.6" rx="4"/>'
+           '<circle cx="12" cy="12" r="3.3"/></g><circle cx="16.3" cy="7.7" r="1" fill="#fff"/>'),
+    'google': (TILE + '<g transform="translate(4 4) scale(.3333)">'
+               '<path fill="#EA4335" d="M24 9.5c3.54 0 6.71 1.22 9.21 3.6l6.85-6.85C35.9 2.38 30.47 0 24 0 14.62 0 6.51 5.38 2.56 13.22l7.98 6.19C12.43 13.72 17.74 9.5 24 9.5z"/>'
+               '<path fill="#4285F4" d="M46.98 24.55c0-1.57-.15-3.09-.38-4.55H24v9.02h12.94c-.58 2.96-2.26 5.48-4.78 7.18l7.73 6c4.51-4.18 7.09-10.36 7.09-17.65z"/>'
+               '<path fill="#FBBC05" d="M10.53 28.59c-.48-1.45-.76-2.99-.76-4.59s.27-3.14.76-4.59l-7.98-6.19C.92 16.46 0 20.12 0 24c0 3.88.92 7.54 2.56 10.78l7.97-6.19z"/>'
+               '<path fill="#34A853" d="M24 48c6.48 0 11.93-2.13 15.89-5.81l-7.73-6c-2.15 1.45-4.92 2.3-8.16 2.3-6.26 0-11.57-4.22-13.47-9.91l-7.98 6.19C6.51 42.62 14.62 48 24 48z"/></g>'),
+    'yandex': (TILE + '<path d="M12 3.4a6.6 6.6 0 0 0-6.6 6.6c0 4.7 6.6 11 6.6 11s6.6-6.3 6.6-11A6.6 6.6 0 0 0 12 3.4z" fill="#FC3F1D"/>'
+               '<circle cx="12" cy="10" r="2.6" fill="#fff"/>'),
+    '2gis': ('<rect width="24" height="24" rx="6" fill="#19AA1E"/>'
+             '<text x="12" y="15.2" text-anchor="middle" font-family="Arial, Helvetica, sans-serif" font-weight="700" '
+             'font-size="8.4" fill="#fff" letter-spacing="-.2">2GIS</text>'),
+}
 
-def main():
-    os.makedirs(OUT, exist_ok=True)
-    qr = qrcode.QRCode(error_correction=ERROR_CORRECT_Q, border=0)
-    qr.add_data(URL)
+
+def make(name, url, logo):
+    qr = qrcode.QRCode(error_correction=ERROR_CORRECT_H, border=0)
+    qr.add_data(url)
     qr.make(fit=True)
     m = qr.get_matrix()
     n = len(m)
 
+    # Центр под логотип: нечётное число целых модулей ≈ 28 % ширины, чтобы край выреза был ровным
+    k = round(n * 0.28) | 1
+    lo = (n - k) // 2
+    hole = range(lo, lo + k)
+
     # Один path из квадратов-модулей: файл чёткий в любом размере
-    d = ''.join(f'M{x} {y}h1v1h-1z' for y, row in enumerate(m) for x, on in enumerate(row) if on)
-    svg = (f'<svg xmlns="http://www.w3.org/2000/svg" viewBox="0 0 {n} {n}" shape-rendering="crispEdges">'
-           f'<path fill="{INK}" d="{d}"/></svg>\n')
-    with open(os.path.join(OUT, 'qr.svg'), 'w') as f:
+    d = ''.join(f'M{x} {y}h1v1h-1z' for y, row in enumerate(m) for x, on in enumerate(row)
+                if on and not (y in hole and x in hole))
+    pad = 0.6  # белая рамка вокруг логотипа, в модулях
+    s = (k - 2 * pad) / 24
+    svg = (f'<svg xmlns="http://www.w3.org/2000/svg" viewBox="0 0 {n} {n}">'
+           f'<path fill="{INK}" shape-rendering="crispEdges" d="{d}"/>'
+           f'<g transform="translate({lo + pad} {lo + pad}) scale({s:.4f})">{LOGOS[logo]}</g></svg>\n')
+    with open(os.path.join(OUT, f'{name}.svg'), 'w') as f:
         f.write(svg)
 
     from PIL import Image
@@ -37,8 +88,14 @@ def main():
             if on:
                 canvas.putpixel((x + quiet, y + quiet), (0x1B, 0x16, 0x12))
     size = (2400 // side) * side  # целый масштаб — все модули одного размера
-    canvas.resize((size, size), Image.NEAREST).save(os.path.join(OUT, 'qr.png'))
-    print(f'{URL}: {n}x{n} modules -> print/qr.svg, print/qr.png')
+    canvas.resize((size, size), Image.NEAREST).save(os.path.join(OUT, f'{name}.png'))
+    print(f'{url}: {n}x{n} modules, logo {k}x{k} -> print/{name}.svg, print/{name}.png')
+
+
+def main():
+    os.makedirs(OUT, exist_ok=True)
+    for name, (url, logo) in CODES.items():
+        make(name, url, logo)
 
 
 if __name__ == '__main__':
